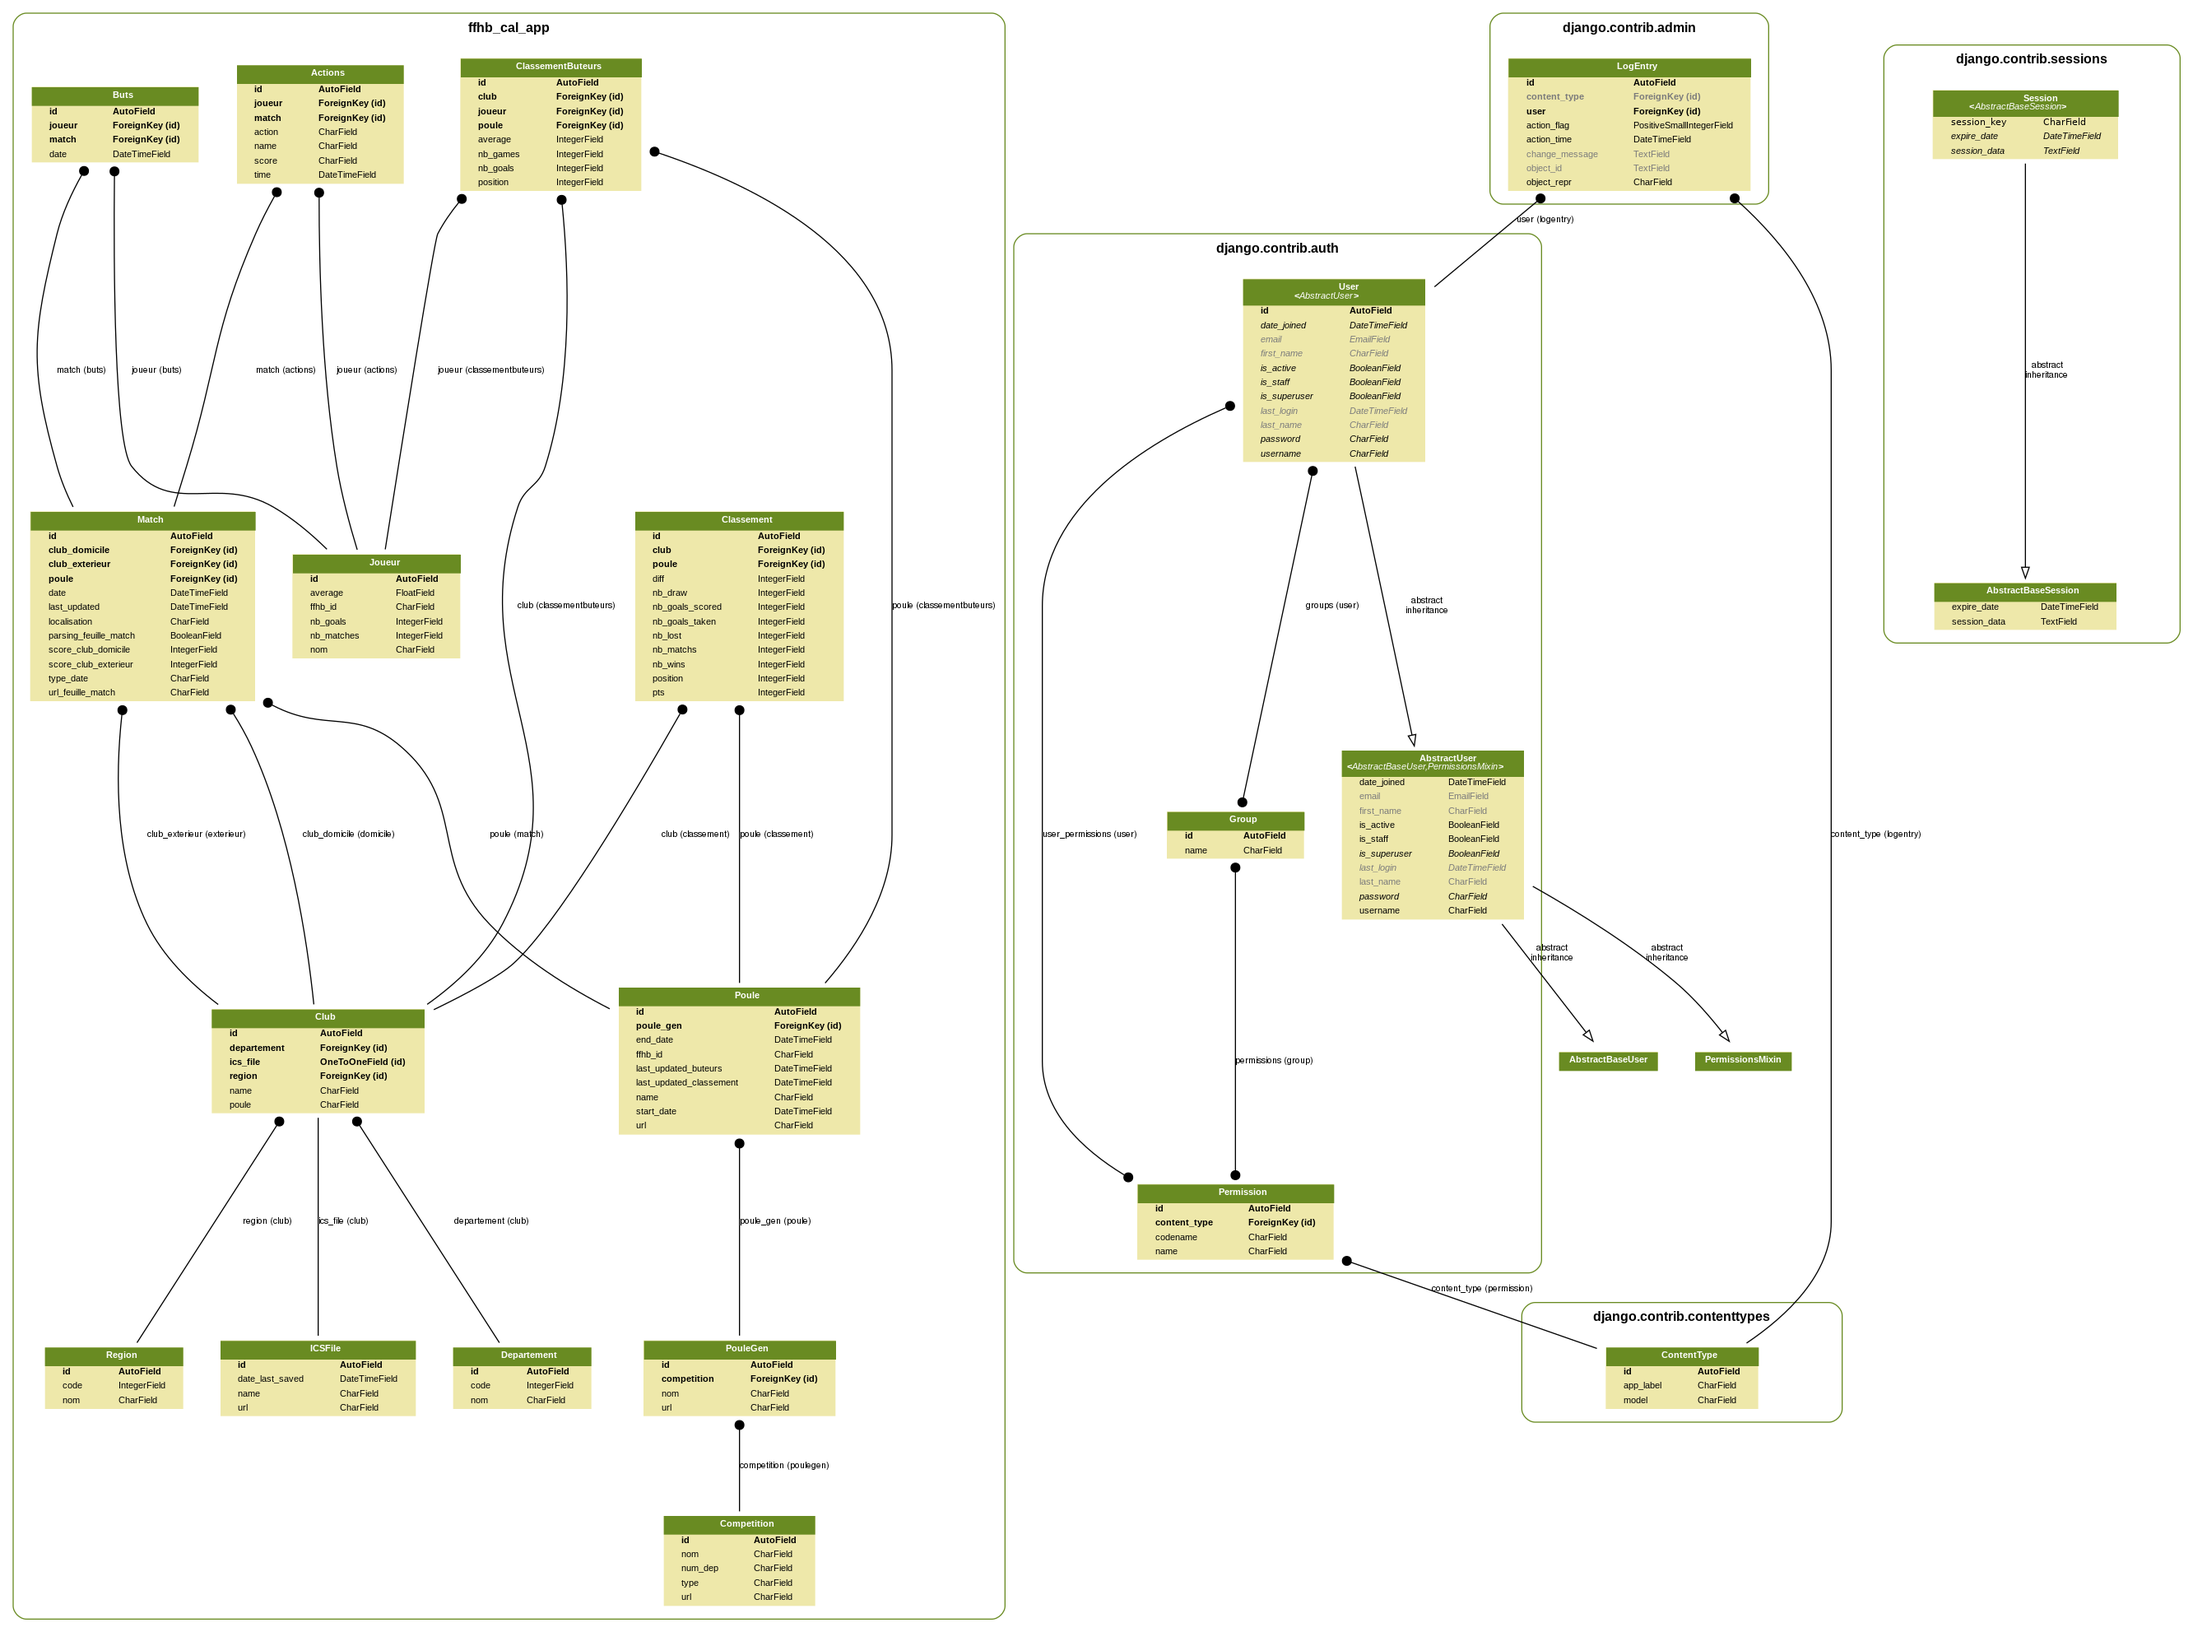
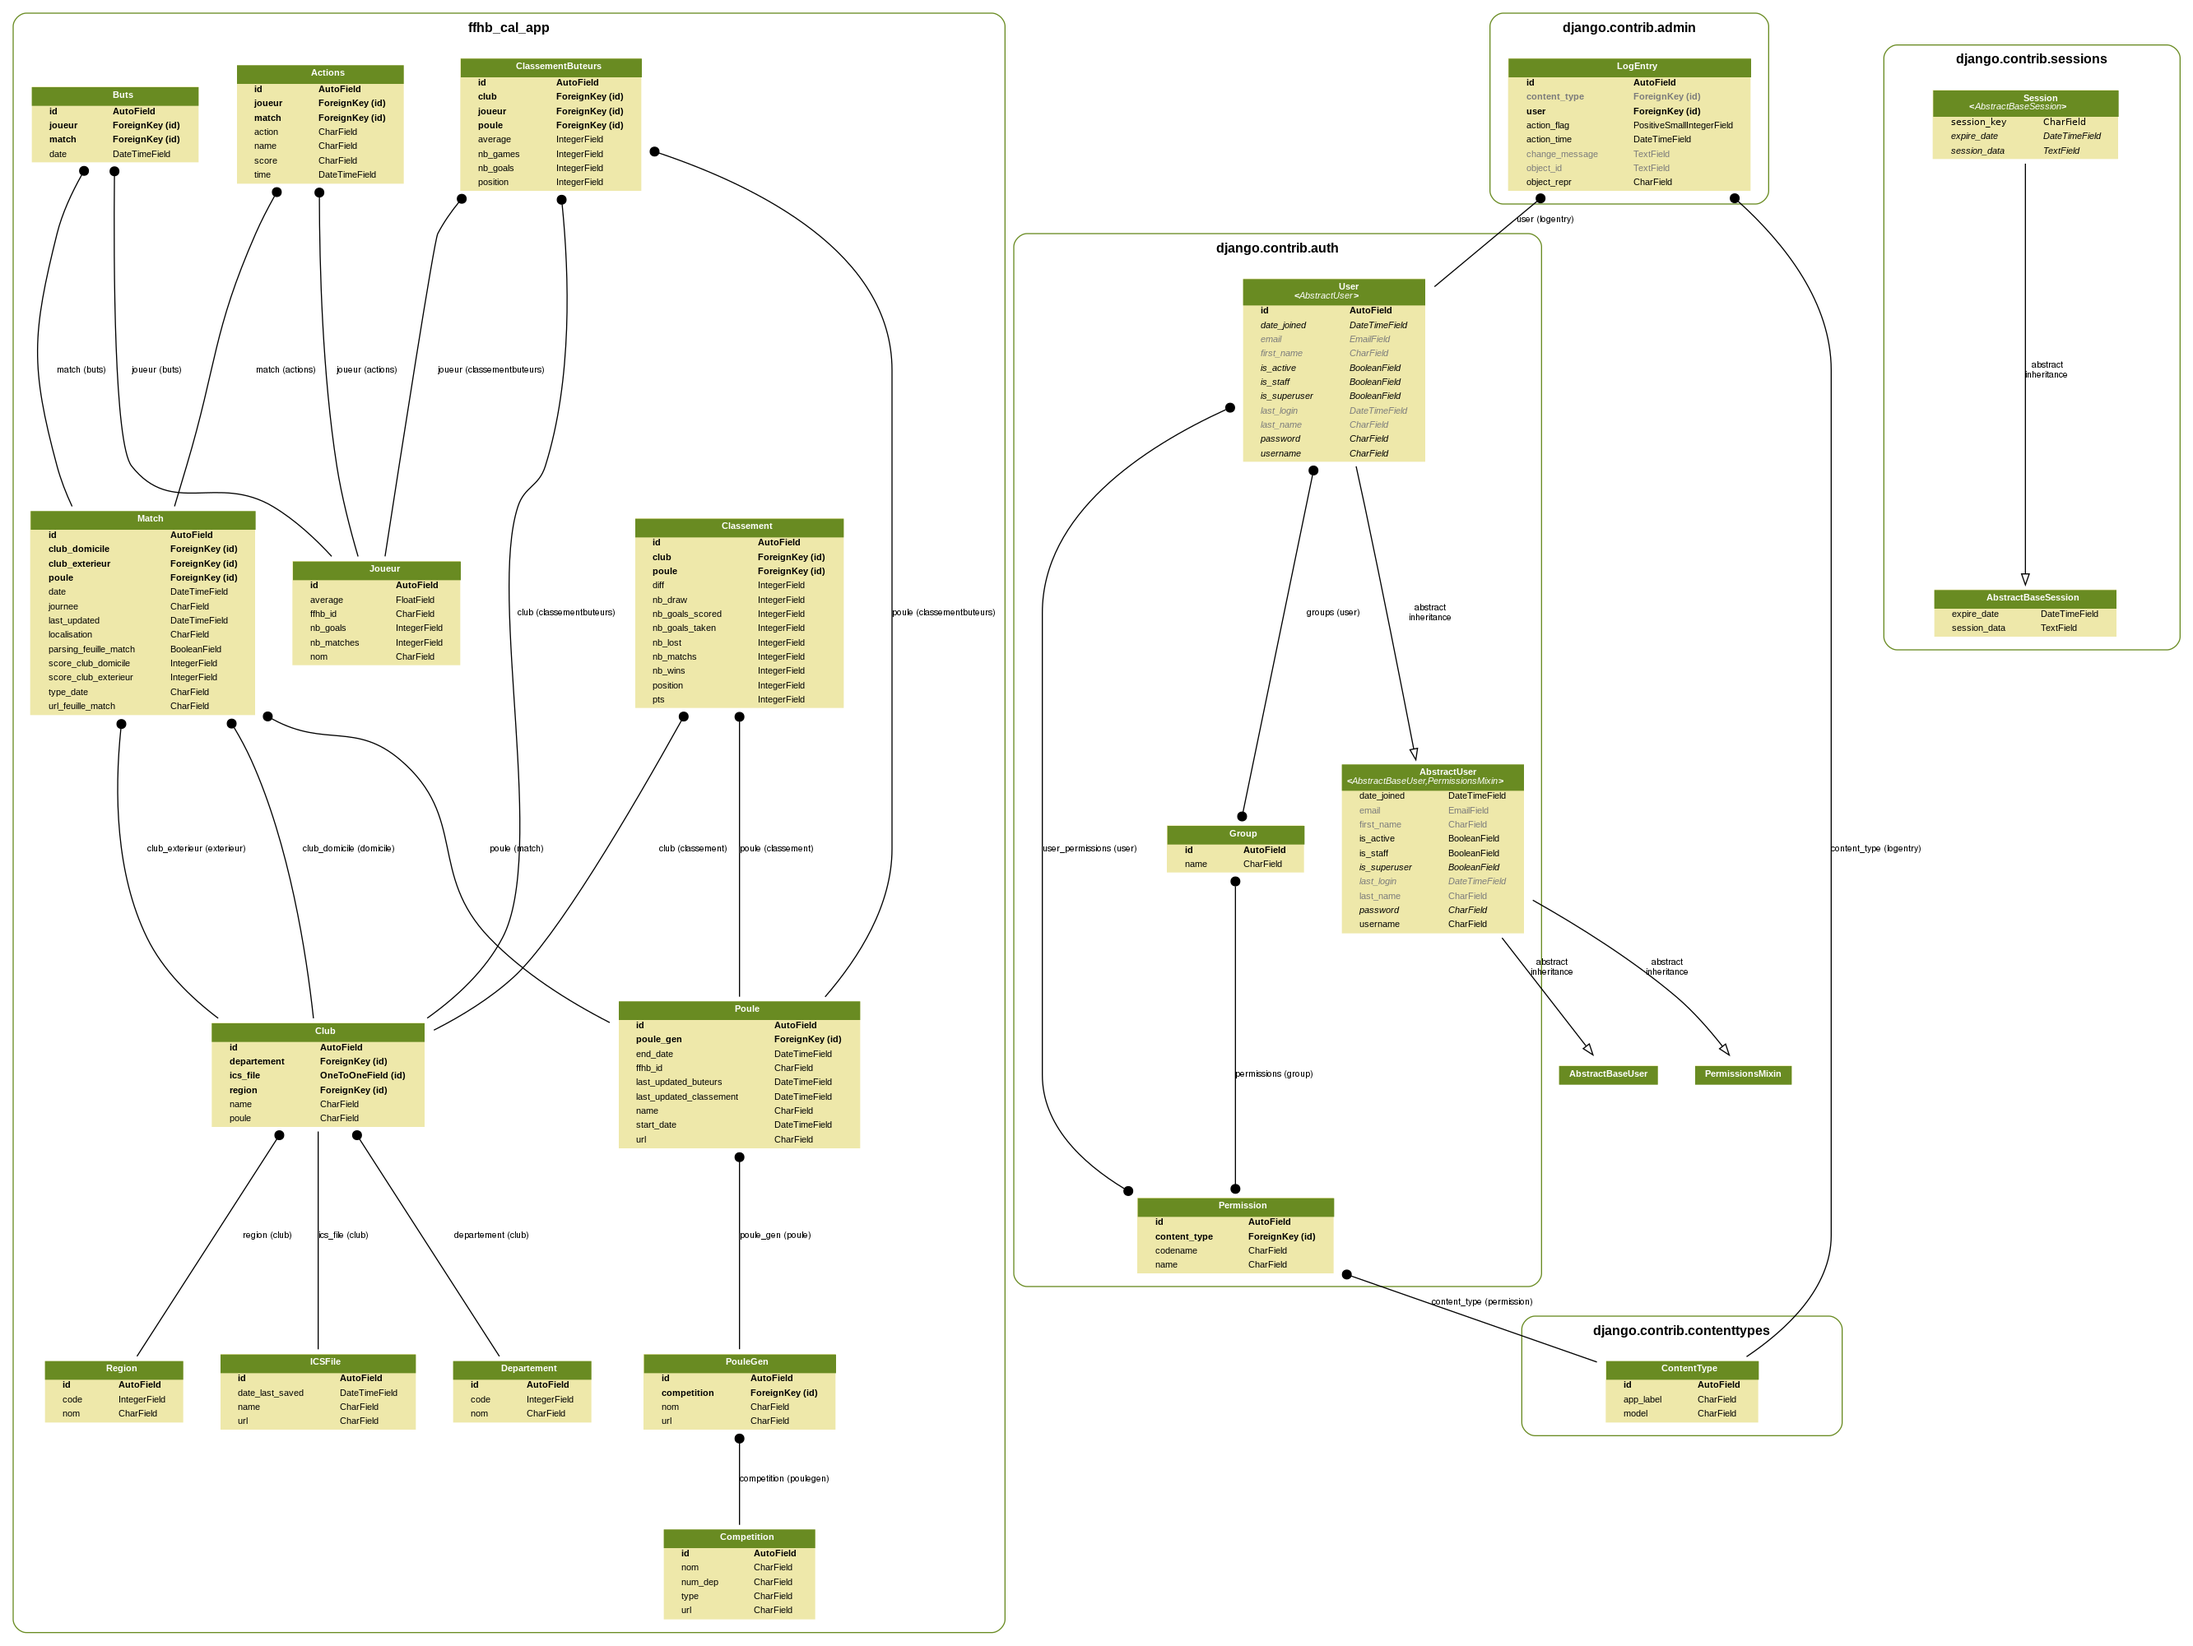
get poulesGen work

diff --git a/ffhb_cal/ffhb_cal_app/populate_poules.py b/ffhb_cal/ffhb_cal_app/populate_poules.py
@@ -62,15 +62,40 @@ def getCompetitions():
     return competitions
 
 
-def getPouleGen(url_compet):
-    return 0
+def getPoulesGen(url_compet):
+    response = requests.get(url_compet)
+    soup = BeautifulSoup(response.text, "lxml")
+    liste_poules_gen = soup.find('ul', attrs={'class': 'chpts'})
+    rows = liste_poules_gen.find_all('li', recursive=False)
+
+    poules_gen = []
+
+    for row in rows:
+        nom = row.find('span').text.encode('utf-8')
+        url = BASE_URL + row.find('a')['href']
+        poules_gen.append([nom, url])
+
+    return poules_gen
 
 
 def getPoules(url_poule_gen):
+    # TODO : Check if multiple seasons
+    # TODO : Check if multiple poules in the page
+    response = requests.get(url_poule_gen)
+    soup = BeautifulSoup(response.text, "lxml")
+
     return 0
 
 
 if __name__ == '__main__':
-    competitions = getCompetitions()
-    for compet in competitions:
-        print(compet)
+    #competitions = getCompetitions()
+
+    # TODO : Save competition in DB
+    # TODO : Iterate on all competitions to get all poule gen
+
+    #poules_gen = getPoulesGen('http://www.ff-handball.org/competitions/championnats-departementaux/85-comite-de-la-vendee.html')
+
+    # TODO : Save poulegen in DB
+    # TODO : Iterate on all competitions to get all poule gen
+
+    poules = getPoules("http://www.ff-handball.org/competitions/championnats-departementaux/85-comite-de-la-vendee.html?tx_obladygesthand_pi1%5Bcompetition_id%5D=10818&cHash=df38231f13f8bd62a6260775bbba8f16")

diff --git a/ffhb_cal/ffhb_cal_app/models.py b/ffhb_cal/ffhb_cal_app/models.py
@@ -124,7 +124,11 @@ class Match(models.Model):
     last_updated = models.DateTimeField(
         'date last_parsing of the game', default='')
     url_feuille_match = models.CharField(max_length=500, default='')
+    # true or false, if the parsing of the feuille of the match has been done
     parsing_feuille_match = models.BooleanField(default=False)
+    # Quelle journée de la poule on parle (journée 1, du 15 au 17/09, par
+    # exemple)
+    journee = models.CharField(max_length=500, default='')
 
 
 class Actions(models.Model):
